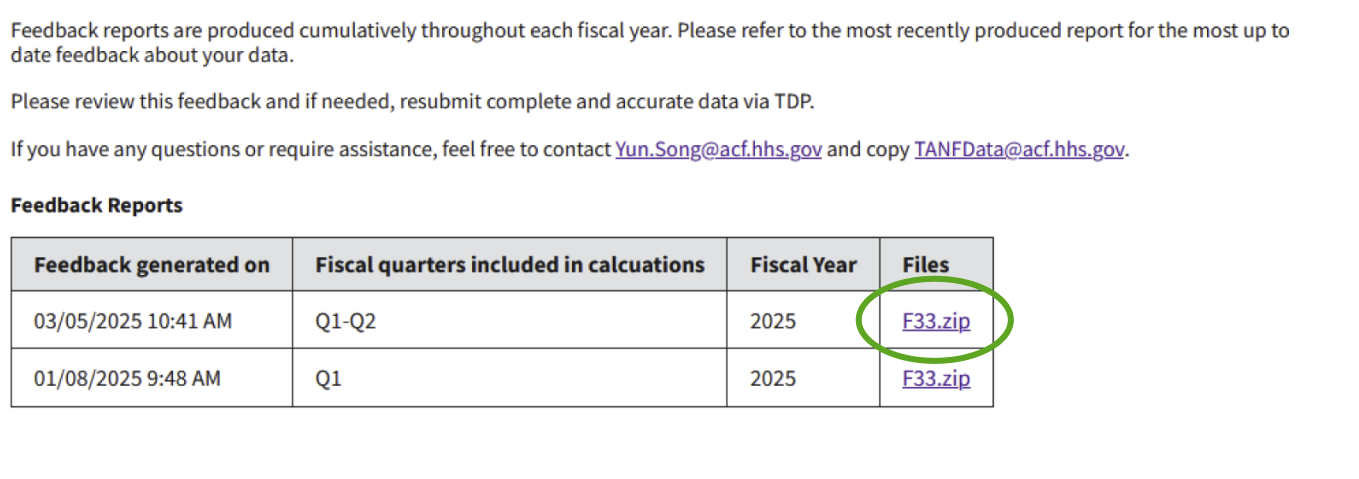
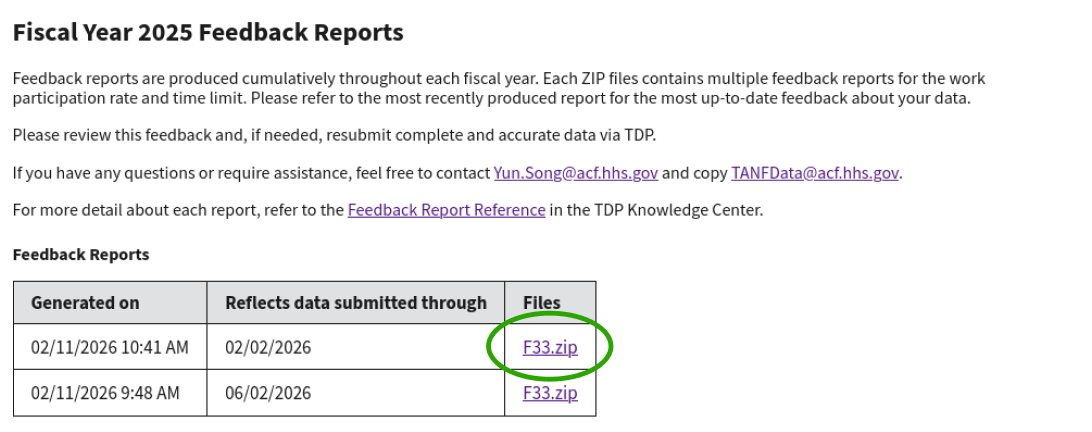
Stage feedback reports

diff --git a/knowledge-center/release-notes.html b/knowledge-center/release-notes.html
@@ -406,7 +406,7 @@
 
         <hr class="releaseHr">
 
-<!--  <h2 style="margin-top: 32px;" id="dec172025">December 17, 2025 (v 3.x.x)</h2>
+ <h2 style="margin-top: 32px;" id="dec172025">February 11, 2026 (v 4.12.0)</h2>
 
   <h3 style="margin-top: 16px; color: #595959;">Added:</h3>
         <ul class="usa-icon-list">
@@ -418,10 +418,10 @@
               <h5 class="usa-icon-list__title">
                 Feedback Reports are now distributed via TDP
               </h5>
-              <p>Feedback reports (including Work Participation Rate and Time Limit reports are now delivered directly through TDP, replacing the prior system of distributing them by email. <a href="feedback-reports.html">Learn more about Feedback Reports in TDP.</a></p>
+              <p>Feedback reports including Work Participation Rate and Time Limit reports are now delivered directly through TDP, replacing the prior system of distributing them by email. <a href="feedback-reports.html">Learn more about Feedback Reports in TDP.</a></p>
             </div>
           </li>
-          <li class="usa-icon-list__item" style="margin-top: 16px;">
+          <!-- <li class="usa-icon-list__item" style="margin-top: 16px;">
             <div class="usa-icon-list__icon text-ink">
               <img src="../img/added.svg" aria-hidden="true" alt="" style="background-color: #d3ffcc; border-radius: 5px; width: 18px; height: 18px; position: relative; top: 2px; margin-right: 22px; margin-left: 5px;"/>
             </div>
@@ -431,12 +431,12 @@
               </h5>
               <p>PIA data can now be submitted via a new file type option within the TANF Data Files tab for Fiscal Year 2024. </a></p>
             </div>
-          </li>
+          </li> -->
 
         </ul>     
 
 
-        <hr class="releaseHr"> -->
+        <hr class="releaseHr">
 
         <h2 style="margin-top: 32px;" id="may92025">May 9, 2025 (v 3.8.4)</h2>
 

diff --git a/knowledge-center/components/desktop-navigation.html b/knowledge-center/components/desktop-navigation.html
@@ -71,8 +71,10 @@ class="usa-current" aria-current="page"
             </li>
 
   
-    
-
+            <li class="usa-sidenav__item">
+              <a href="./feedback-reports.html">Feedback Reports</a>
+            </li>
+              
 
             
             <li class="usa-sidenav__item">

diff --git a/knowledge-center/components/mobile-navigation.html b/knowledge-center/components/mobile-navigation.html
@@ -49,7 +49,10 @@
         </ul>
       </li>
 
-
+      <li class="usa-sidenav__item">
+              <a href="./feedback-reports.html">Feedback Reports</a>
+            </li>
+              
 
 
       <li class="usa-sidenav__item">
